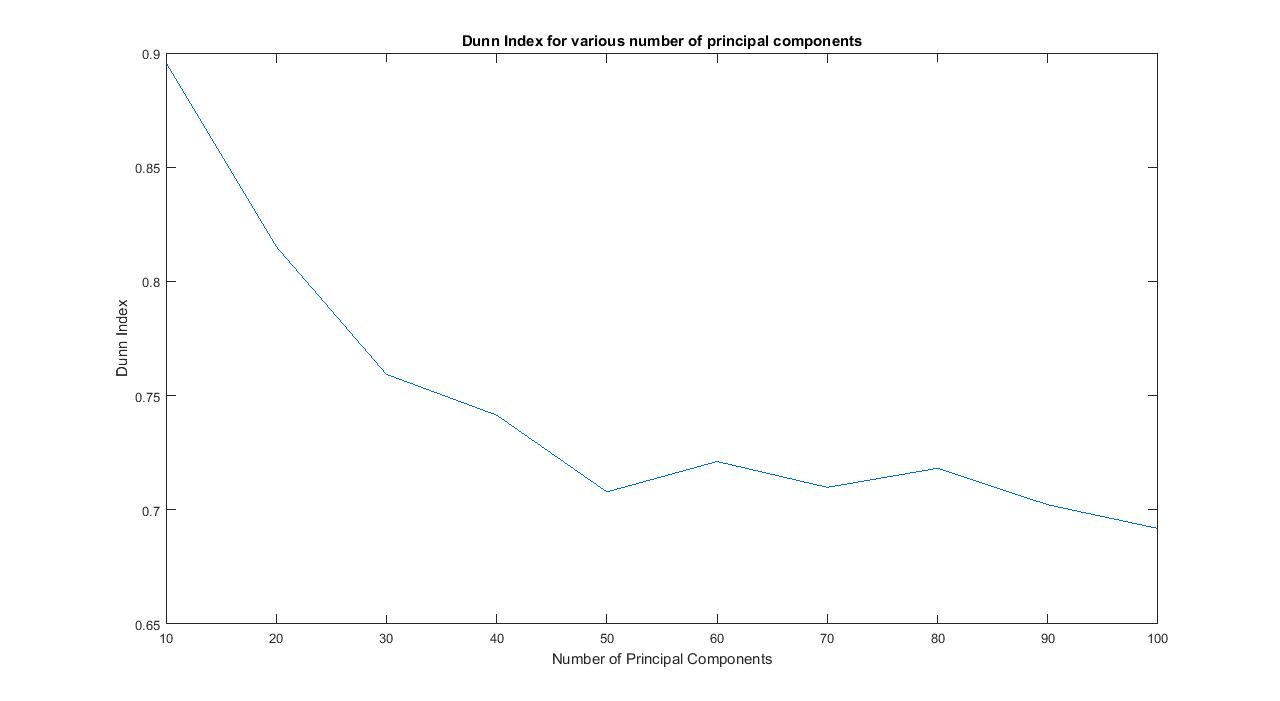
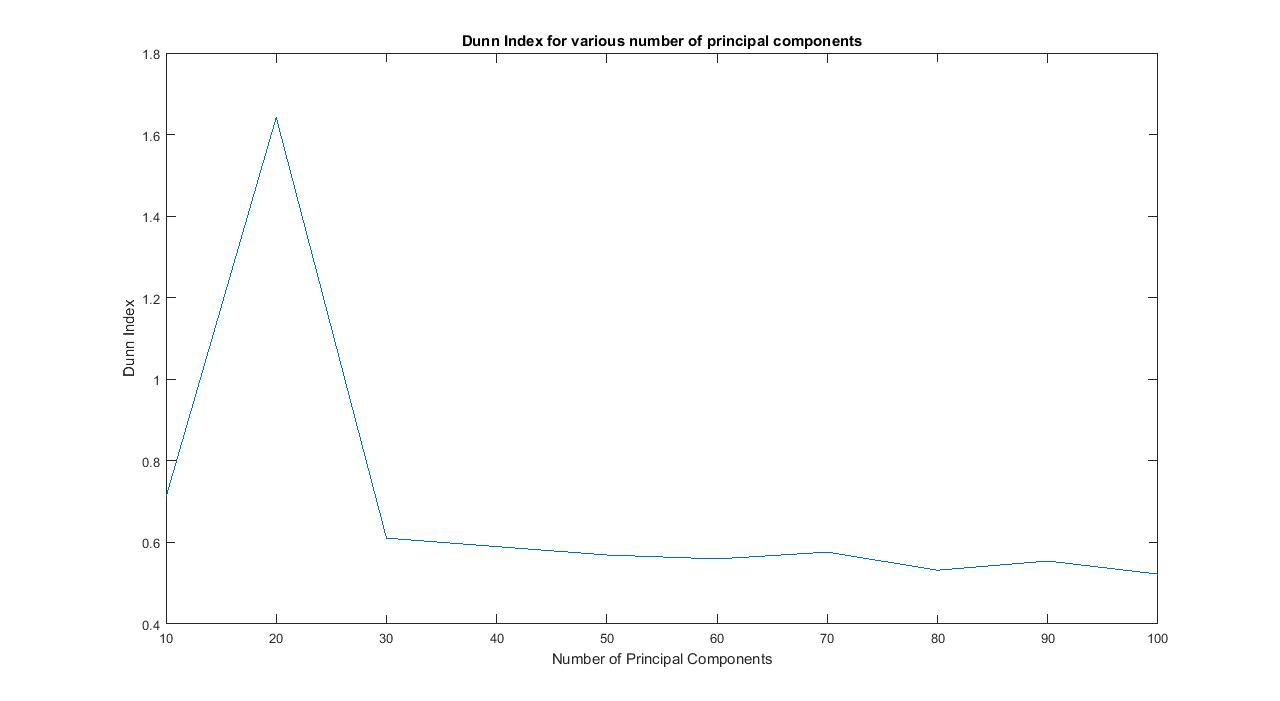
backup

diff --git a/Fmeasure.m b/Fmeasure.m
@@ -3,7 +3,7 @@ function[F1] = Fmeasure(member_matrix)
 %it is being used for external validity of clustering for different no of
 %PCs
 
-probe_count = size(member_matrix,2);
+image_count = size(member_matrix,2);
 %cluster_num = size(member_matrix, 1);
 
 Gender = importSoft();
@@ -12,14 +12,14 @@ valueSet = [1:size(keySet,1)];
 mapObj  = containers.Map(keySet, valueSet);
 clusters = cell2mat(values( mapObj, Gender));
 
-%actual clusters for probe images
-probe_clusters_actual = zeros(probe_count, 1);
-for i = 1:probe_count
-    probe_clusters_actual(i,1) = clusters(ceil(i/2),1);
+%actual clusters for images
+image_clusters_actual = zeros(image_count, 1);
+for i = 1:image_count
+    image_clusters_actual(i,1) = clusters(ceil(i/3),1);
 end;
 
 %class with more members in actual clusters
-out = [valueSet.',histc(probe_clusters_actual(:),valueSet.')];
+out = [valueSet.',histc(image_clusters_actual(:),valueSet.')];
 more_members_class = ...
     out(floor(find(out == max(out(:,2)))/2), 1);
 less_members_class = ...
@@ -30,9 +30,9 @@ cluster1_member_indices = find(member_matrix(1,:));
 cluster2_member_indices = find(member_matrix(2,:));
 
 class1_member_indices = ...
-    find(probe_clusters_actual == more_members_class);
+    find(image_clusters_actual == more_members_class);
 class2_member_indices = ...
-    find(probe_clusters_actual == less_members_class);
+    find(image_clusters_actual == less_members_class);
 
 class1_in_cluster1 = ...
     sum(ismember(class1_member_indices, cluster1_member_indices));
@@ -63,15 +63,28 @@ cluster1_size = sum(cluster_matrix(:,1));
 cluster2_size = sum(cluster_matrix(:,2));
 
 %all pairs that can be chosen from all the samples
-all_pairs = nchoosek(probe_count, 2);   
+all_pairs = nchoosek(image_count, 2);   
 %all pairable samples from the 2 clusters
 all_positives = nchoosek(cluster1_size,2) + nchoosek(cluster2_size,2); 
 %all pairable samples of same class in same cluster
-TP = nchoosek(cluster_matrix(1,1), 2) + nchoosek(cluster_matrix(1,2), 2) ...
-    + nchoosek(cluster_matrix(2,1), 2) + nchoosek(cluster_matrix(2,2), 2);
+try
+    TP = nchoosek(cluster_matrix(1,1), 2) + ...
+        nchoosek(cluster_matrix(1,2), 2) +...
+        nchoosek(cluster_matrix(2,1), 2) + ...
+        nchoosek(cluster_matrix(2,2), 2);
+catch
+    TP = 0;
+    for i = 1:2
+        for j = 1:2
+            if cluster_matrix(i,j) >= 2
+                TP = TP + nchoosek(cluster_matrix(i,j), 2);
+            end;
+        end;
+    end;
+end;
 FP = all_positives - TP;    %all non-pairable samples of different classes in same cluster
 
-all_negatives = all_pairs - all_positives;
+%all_negatives = all_pairs - all_positives;
 FN = sum(prod(cluster_matrix, 2));
 
 precision = TP/(TP + FP);

diff --git a/runProgram.m b/runProgram.m
@@ -5,12 +5,14 @@ function[member_matrix, Kcentroids, WCSS, DI, FMI, accuracy, ...
 
 gallery = importGallery();
 [V, M] = findEig(gallery);
-gallery_weights = galleryWeightVectors(gallery, V, M);
+ignore_eig = 1;
+gallery_weights = galleryWeightVectors(ignore_eig, gallery, V, M);
 probes = importProbes();
 probes_weights = probeWeightVectors(probes, V, M);
 %[result, accuracy] = ...
 accuracy = testing(probes_weights, gallery_weights);
 direct_accuracy = testingWOutReduction(probes, gallery);
-[member_matrix, Kcentroids, WCSS, DI, FMI] = clustering(probes_weights);
+[member_matrix, Kcentroids, WCSS, DI, FMI] = ...
+    clustering(gallery_weights, probes_weights);
 
 plotIndices(DI, FMI);

diff --git a/DunnIndex.m b/DunnIndex.m
@@ -1,4 +1,4 @@
-function [DI] = DunnIndex(probes_weights, member_matrix, Kcentroids,...
+function [DI] = DunnIndex(image_weights, member_matrix, Kcentroids,...
     clusterCount, sampleCount)
 %this function is to calculate Dunn's Index for the clusters
 %this is for internal validity of clusters for different no of PCs
@@ -15,7 +15,7 @@ end;
 
 maxScatter = 0;
 for i=1:clusterCount
-    scatter = (member_matrix(i,:) * (sum(((probes_weights - ...
+    scatter = (member_matrix(i,:) * (sum(((image_weights - ...
         repmat(Kcentroids(:,i), 1, sampleCount)).^2),1).^0.5).')...
         ./sum(member_matrix(i,:));
     if scatter > maxScatter

diff --git a/galleryWeightVectors.m b/galleryWeightVectors.m
@@ -1,8 +1,8 @@
-function[gallery_weights] = galleryWeightVectors(gallery, V, M)
+function[gallery_weights] = galleryWeightVectors(ignore_eig, gallery, V, M)
 %this function finds the weight vectors of the gallery vectors by
 %projecting the zero mean vectors on to the Principal Components
 
-V = V(:,4:size(V,2));
+V = V(:,ignore_eig:size(V,2));
 gallery_weights = zeros(size(V,2), size(gallery, 2));
 for i = 1:size(gallery, 2)
     for j=1:size(V,2)

diff --git a/probeWeightVectors.m b/probeWeightVectors.m
@@ -1,8 +1,8 @@
-function [probes_weights] = probeWeightVectors(probes, V, M)
+function [probes_weights] = probeWeightVectors(ignore_eig, probes, V, M)
 %this function finds the weight vectors of the probes vectors by
 %projecting the zero mean vectors on to the Principal Components
 
-V = V(:,4:size(V,2));
+V = V(:,ignore_eig:size(V,2));
 probes_weights = zeros(size(V,2), size(probes, 2));
 for i = 1:size(probes, 2)
     for j=1:size(V,2)
